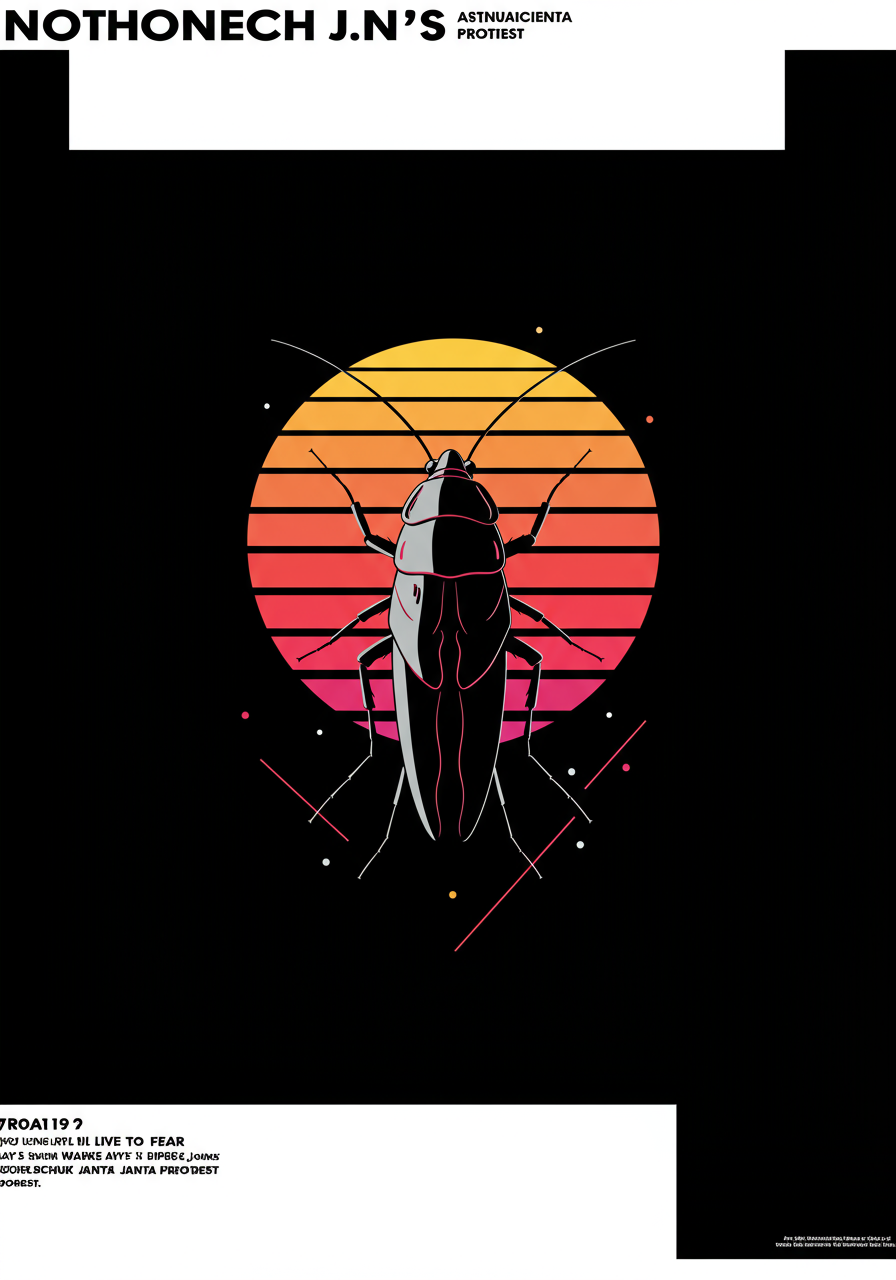
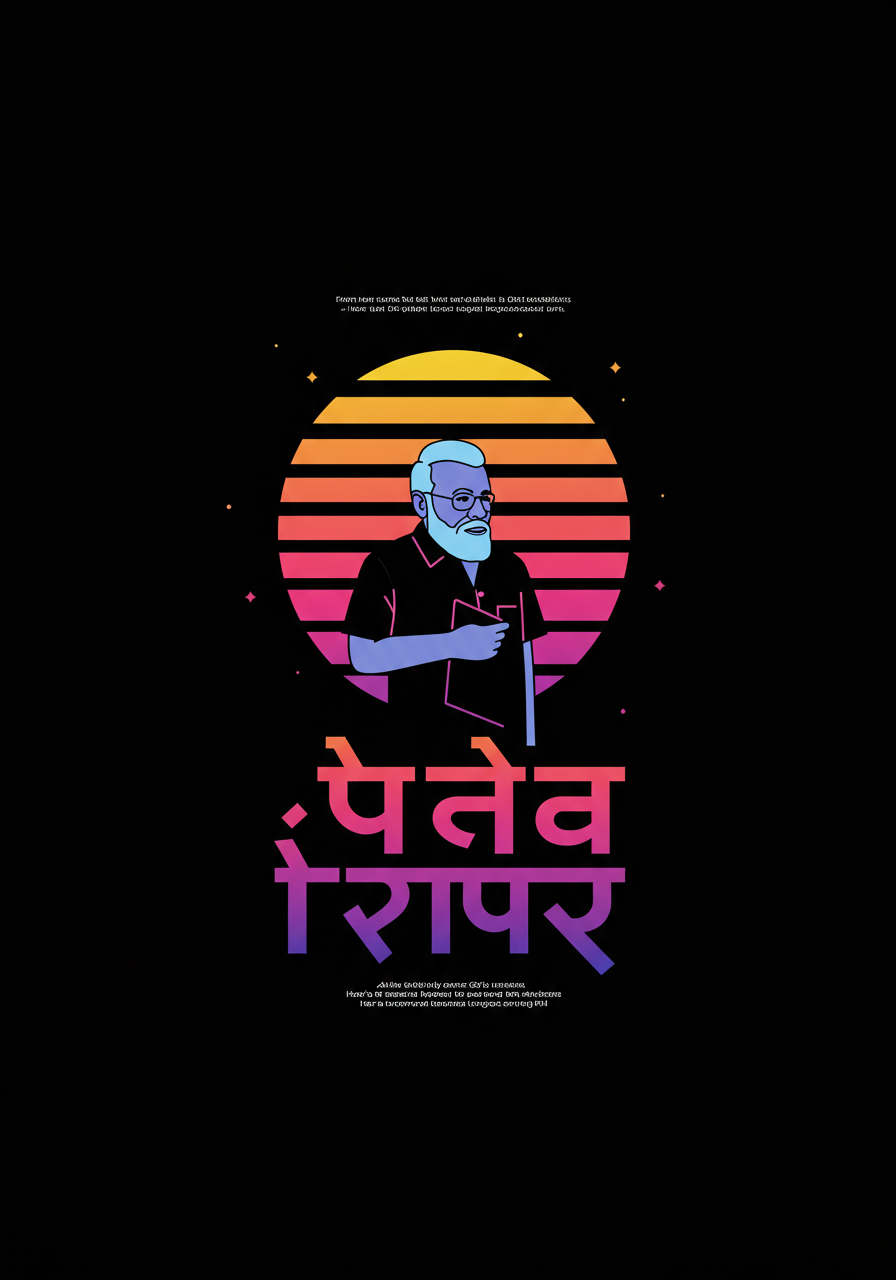
feat: add Checkout page + update lot-2 artwork

diff --git a/src/pages/Checkout.jsx b/src/pages/Checkout.jsx
@@ -1,0 +1,205 @@
+import { useState, useEffect } from 'react';
+import { useNavigate } from 'react-router-dom';
+import { useAuth } from '../contexts/AuthContext';
+
+const API = import.meta.env.VITE_API_URL ?? '';
+
+function useCountdown(expiresAt) {
+  const [timeLeft, setTimeLeft] = useState('');
+  const [expired, setExpired] = useState(false);
+  useEffect(() => {
+    if (!expiresAt) return;
+    const update = () => {
+      const diff = new Date(expiresAt) - new Date();
+      if (diff <= 0) { setTimeLeft('EXPIRED'); setExpired(true); return; }
+      const h = Math.floor(diff / 3600000);
+      const m = Math.floor((diff % 3600000) / 60000);
+      const s = Math.floor((diff % 60000) / 1000);
+      setTimeLeft(`${String(h).padStart(2,'0')}:${String(m).padStart(2,'0')}:${String(s).padStart(2,'0')}`);
+    };
+    update();
+    const id = setInterval(update, 1000);
+    return () => clearInterval(id);
+  }, [expiresAt]);
+  return { timeLeft, expired };
+}
+
+export default function Checkout() {
+  const navigate = useNavigate();
+  const { token } = useAuth();
+
+  const [lot, setLot] = useState(null);
+  const [loadingLot, setLoadingLot] = useState(true);
+  const [stage, setStage] = useState('win'); // 'win' | 'address' | 'confirmed'
+  const [address, setAddress] = useState({ name: '', line1: '', line2: '', city: '', state: '', pincode: '', phone: '' });
+  const [submitting, setSubmitting] = useState(false);
+  const [error, setError] = useState('');
+  const [order, setOrder] = useState(null);
+
+  const { timeLeft, expired } = useCountdown(lot?.payeeExpiresAt);
+
+  useEffect(() => {
+    if (!token) { navigate('/login', { state: { from: '/checkout' } }); return; }
+    fetch(`${API}/api/lots/current`, { headers: { Authorization: `Bearer ${token}` } })
+      .then(r => r.json())
+      .then(data => {
+        if (data.pendingPayment) {
+          setLot(data.pendingPayment);
+        } else {
+          // No pending payment — go home
+          navigate('/');
+        }
+      })
+      .catch(() => navigate('/'))
+      .finally(() => setLoadingLot(false));
+  }, [token]);
+
+  const handleAddrChange = (e) => setAddress(a => ({ ...a, [e.target.name]: e.target.value }));
+  const addrFilled = address.name && address.line1 && address.city && address.pincode;
+
+  const handlePay = async () => {
+    setSubmitting(true);
+    setError('');
+    try {
+      const r = await fetch(`${API}/api/lots/simulate-payment`, {
+        method: 'POST',
+        headers: { 'Content-Type': 'application/json', Authorization: `Bearer ${token}` },
+        body: JSON.stringify({ address }),
+      });
+      const data = await r.json();
+      if (!r.ok) throw new Error(data.error || 'Payment failed');
+      setOrder(data.order);
+      setStage('confirmed');
+    } catch (err) {
+      setError(err.message || 'Payment failed.');
+    } finally {
+      setSubmitting(false);
+    }
+  };
+
+  if (loadingLot) {
+    return (
+      <div className="account-page">
+        <div className="auth-bg"><div className="auth-nebula-a" /><div className="auth-nebula-b" /></div>
+        <div className="account-card checkout-card">
+          <div className="account-empty"><div className="account-empty-text">Loading…</div></div>
+        </div>
+      </div>
+    );
+  }
+
+  return (
+    <div className="account-page">
+      <div className="auth-bg">
+        <div className="auth-nebula-a" />
+        <div className="auth-nebula-b" />
+      </div>
+
+      <div className="account-card checkout-card">
+        <div className="account-header">
+          <button className="account-back" onClick={() => navigate('/')}>← Back to auction</button>
+        </div>
+
+        {stage === 'win' && lot && (
+          <div className="checkout-stage">
+            <div className="checkout-badge">🏆</div>
+            <h2 className="checkout-title">You Won the Bid!</h2>
+            <p className="checkout-sub">
+              Congratulations — you won today's drop: <strong>{lot.title}</strong> by {lot.artist}.
+              Complete payment within your 2-hour window or the piece passes to the next bidder.
+            </p>
+            <div className="celebration-timer-box" style={{ margin: '24px 0' }}>
+              <div className="celebration-timer-label">Time Remaining to Settle</div>
+              <div className="celebration-timer-val">{timeLeft}</div>
+            </div>
+            <button className="celebration-pay-btn" onClick={() => setStage('address')} disabled={expired}>
+              Proceed to Shipping →
+            </button>
+          </div>
+        )}
+
+        {stage === 'address' && lot && (
+          <div className="checkout-stage">
+            <div className="checkout-badge">📦</div>
+            <h2 className="checkout-title">Shipping Details</h2>
+            <p className="checkout-sub" style={{ marginBottom: 20 }}>
+              Where should we deliver <strong>{lot.title}</strong>?
+            </p>
+            <div className="checkout-form">
+              <div className="checkout-row">
+                <input className="checkout-input" name="name" placeholder="Full name *" value={address.name} onChange={handleAddrChange} />
+                <input className="checkout-input" name="phone" placeholder="Phone number" value={address.phone} onChange={handleAddrChange} />
+              </div>
+              <input className="checkout-input" name="line1" placeholder="Address line 1 *" value={address.line1} onChange={handleAddrChange} />
+              <input className="checkout-input" name="line2" placeholder="Address line 2 (apt, floor…)" value={address.line2} onChange={handleAddrChange} />
+              <div className="checkout-row">
+                <input className="checkout-input" name="city" placeholder="City *" value={address.city} onChange={handleAddrChange} />
+                <input className="checkout-input" name="state" placeholder="State" value={address.state} onChange={handleAddrChange} />
+                <input className="checkout-input" name="pincode" placeholder="Pincode *" value={address.pincode} onChange={handleAddrChange} />
+              </div>
+            </div>
+
+            <div className="celebration-timer-box" style={{ margin: '20px 0 8px' }}>
+              <div className="celebration-timer-label">Time Remaining</div>
+              <div className="celebration-timer-val" style={{ fontSize: '1.3rem' }}>{timeLeft}</div>
+            </div>
+
+            {error && (
+              <div className="auth-error" style={{ marginBottom: 16, justifyContent: 'center' }}>
+                <span>⚠</span> {error}
+              </div>
+            )}
+
+            <div className="checkout-actions" style={{ marginTop: 16 }}>
+              <button className="celebration-back-btn" onClick={() => setStage('win')}>← Back</button>
+              <button
+                className="celebration-pay-btn"
+                onClick={handlePay}
+                disabled={submitting || !addrFilled || expired}
+                style={{ flex: 1 }}
+              >
+                {submitting ? 'Processing…' : 'Confirm & Pay'}
+              </button>
+            </div>
+          </div>
+        )}
+
+        {stage === 'confirmed' && order && (
+          <div className="checkout-stage">
+            <div className="checkout-badge">🎉</div>
+            <h2 className="checkout-title">Order Confirmed!</h2>
+            <p className="checkout-sub">
+              You've claimed <strong>{lot?.title}</strong>. We'll start printing and ship it your way.
+            </p>
+            <div className="order-confirm-box" style={{ margin: '24px 0' }}>
+              <div className="oc-row">
+                <span className="oc-k">Tracking ID</span>
+                <span className="oc-v oc-track">{order.trackingId}</span>
+              </div>
+              <div className="oc-row">
+                <span className="oc-k">Amount Paid</span>
+                <span className="oc-v">₹{order.amount.toLocaleString('en-IN')}</span>
+              </div>
+              <div className="oc-row">
+                <span className="oc-k">Deliver to</span>
+                <span className="oc-v">{address.name}, {address.line1}, {address.city} – {address.pincode}</span>
+              </div>
+              <div className="oc-row">
+                <span className="oc-k">Status</span>
+                <span className="oc-v" style={{ color: 'var(--win,#a8e6a3)' }}>Confirmed</span>
+              </div>
+            </div>
+            <div className="checkout-actions">
+              <button className="celebration-back-btn" style={{ flex: 1 }} onClick={() => navigate('/')}>
+                Back to Auction
+              </button>
+              <button className="celebration-pay-btn" style={{ flex: 1 }} onClick={() => navigate('/orders')}>
+                View My Orders →
+              </button>
+            </div>
+          </div>
+        )}
+      </div>
+    </div>
+  );
+}